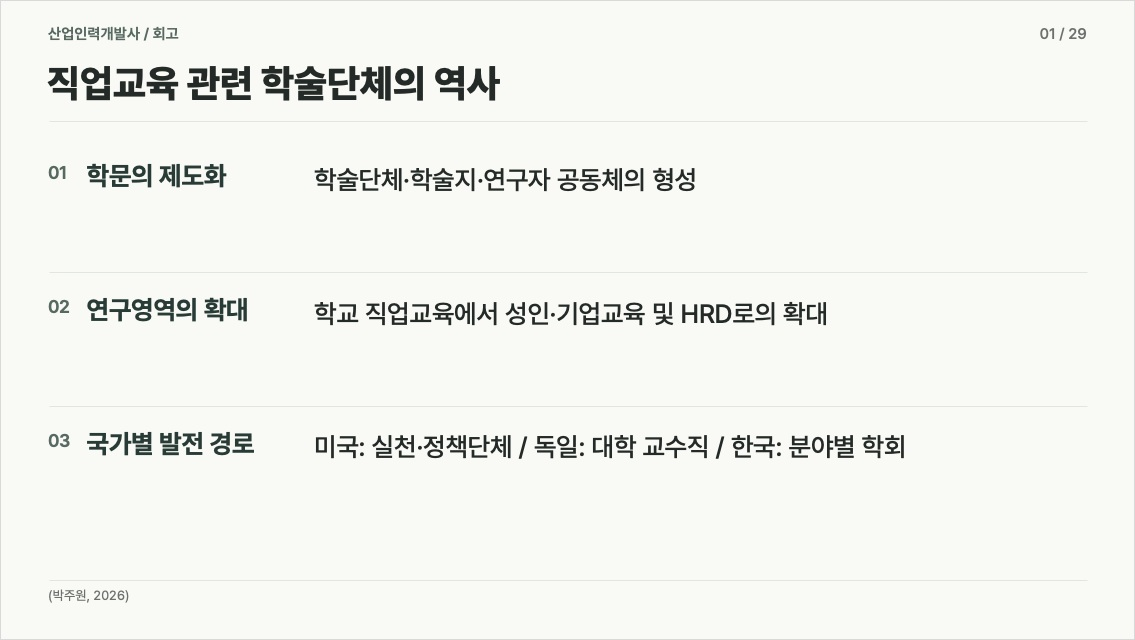
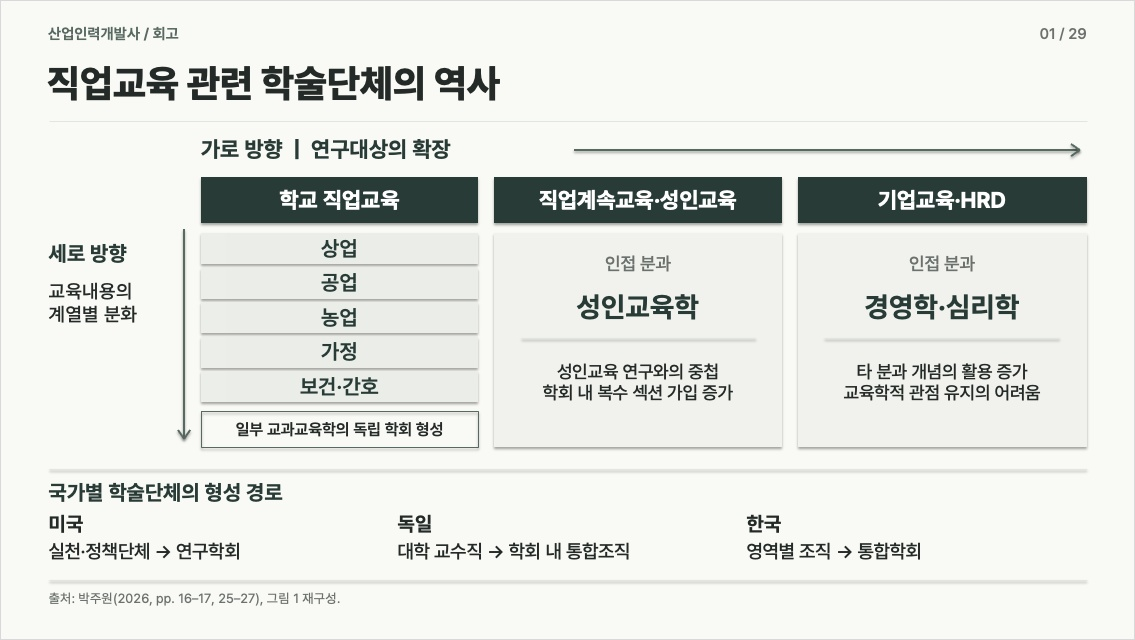
Rebuild recap using horizontal and vertical vocational education framework

diff --git a/au-cn-2026/app.js b/au-cn-2026/app.js
@@ -10,5 +10,5 @@ function drawPanel(){const s=deck.slides[idx];const p=$('#panel');document.query
  else if(tab==='sources'){p.innerHTML='<h3>장표 관련 사료 및 연구문헌</h3><div class="sources">'+s.sources.map(k=>sourceCard(lookup[k])).join('')+'</div>'}
  else{p.innerHTML='<h3>전체 참고문헌 및 확인 위치</h3><div class="summary"><span>등록 출처 <b>'+deck.sources.length+'건</b></span><span>원문 확보 여부 및 자료 성격의 구별</span></div><input class="search" id="sourceSearch" type="search" aria-label="참고문헌 검색" placeholder="저자·제목·연도·검토 상태 검색"><div id="sourceList"></div>';const render=()=>{let q=$('#sourceSearch').value.toLowerCase();$('#sourceList').innerHTML=deck.sources.filter(t=>JSON.stringify(t).toLowerCase().includes(q)).sort((a,b)=>a.ref.localeCompare(b.ref,'en')).map(sourceCard).join('')||'<p>검색 결과 없음</p>'};$('#sourceSearch').oninput=render;render()}
 }
-function go(i,update=true){idx=Math.min(deck.slides.length-1,Math.max(0,i));const s=deck.slides[idx];$('#section').textContent=s.section+' · '+s.id+' / '+deck.slides.length+' · 배정 '+seconds(s.sec);$('#slideTitle').textContent=s.title;$('#slide').src=root+'slides/'+s.id+'.jpg';$('#slide').alt=s.title+' — 실제 PowerPoint 렌더링';$('#sel').value=idx;$('#prev').disabled=idx===0;$('#next').disabled=idx===deck.slides.length-1;$('#bar').style.width=(100*(idx+1)/deck.slides.length)+'%';const used=deck.slides.slice(0,idx+1).reduce((a,b)=>a+b.sec,0);$('#timing').textContent='누적 '+seconds(used)+' / 39:00';drawNav();drawPanel();if(update)history.replaceState(null,'','#slide='+s.id)}
-fetch(root+'data.json',{cache:'no-cache'}).then(r=>{if(!r.ok)throw Error('자료 요청 실패 '+r.status);return r.json()}).then(d=>{deck=d;lookup=Object.fromEntries(d.sources.map(s=>[s.id,s]));$('#sel').innerHTML=d.slides.map((s,i)=>'<option value="'+i+'">'+s.id+' '+esc(s.title)+'</option>').join('');$('#sel').onchange=e=>go(+e.target.value);$('#prev').onclick=()=>go(idx-1);$('#next').onclick=()=>go(idx+1);document.querySelectorAll('.tabs button').forEach(b=>b.onclick=()=>{tab=b.dataset.tab;drawPanel()});document.addEventListener('keydown',e=>{if(/INPUT|SELECT|TEXTAREA/.test(e.target.tagName))return;if(e.key==='ArrowRight'){e.preventDefault();go(idx+1)}if(e.key==='ArrowLeft'){e.preventDefault();go(idx-1)}});const n=Number(location.hash.match(/slide=(\d+)/)?.[1]||1);go(n-1,false)}).catch(e=>{$('#slideTitle').textContent='자료 불러오기 오류';$('#panel').textContent=String(e)});
+function go(i,update=true){idx=Math.min(deck.slides.length-1,Math.max(0,i));const s=deck.slides[idx];$('#section').textContent=s.section+' · '+s.id+' / '+deck.slides.length+' · 배정 '+seconds(s.sec);$('#slideTitle').textContent=s.title;$('#slide').src=root+'slides/'+s.id+'.jpg?v=20261127r006';$('#slide').alt=s.title+' — 실제 PowerPoint 렌더링';$('#sel').value=idx;$('#prev').disabled=idx===0;$('#next').disabled=idx===deck.slides.length-1;$('#bar').style.width=(100*(idx+1)/deck.slides.length)+'%';const used=deck.slides.slice(0,idx+1).reduce((a,b)=>a+b.sec,0);$('#timing').textContent='누적 '+seconds(used)+' / 39:00';drawNav();drawPanel();if(update)history.replaceState(null,'','#slide='+s.id)}
+fetch(root+'data.json?v=20261127r006',{cache:'no-cache'}).then(r=>{if(!r.ok)throw Error('자료 요청 실패 '+r.status);return r.json()}).then(d=>{deck=d;lookup=Object.fromEntries(d.sources.map(s=>[s.id,s]));$('#sel').innerHTML=d.slides.map((s,i)=>'<option value="'+i+'">'+s.id+' '+esc(s.title)+'</option>').join('');$('#sel').onchange=e=>go(+e.target.value);$('#prev').onclick=()=>go(idx-1);$('#next').onclick=()=>go(idx+1);document.querySelectorAll('.tabs button').forEach(b=>b.onclick=()=>{tab=b.dataset.tab;drawPanel()});document.addEventListener('keydown',e=>{if(/INPUT|SELECT|TEXTAREA/.test(e.target.tagName))return;if(e.key==='ArrowRight'){e.preventDefault();go(idx+1)}if(e.key==='ArrowLeft'){e.preventDefault();go(idx-1)}});const n=Number(location.hash.match(/slide=(\d+)/)?.[1]||1);go(n-1,false)}).catch(e=>{$('#slideTitle').textContent='자료 불러오기 오류';$('#panel').textContent=String(e)});

diff --git a/exhibit/index.html b/exhibit/index.html
@@ -1,1 +1,1 @@
-<!DOCTYPE html><html lang="ko"><head><meta charset="utf-8"><meta name="viewport" content="width=device-width,initial-scale=1"><meta name="description" content="호주·중국 직업교육훈련의 비교역사 연구 발표 준비실"><title>호주·중국 직업교육훈련사 | 발표 준비실</title><link rel="stylesheet" href="../au-cn-2026/style.css?v=20261127r005"></head><body data-root="../au-cn-2026/" class="exhibit"><header class="top"><div><p>2026-2 산업인력개발사 · 14주차 주제발표</p><h1>호주·중국 직업교육훈련의 역사</h1><p>산업인력의 양성과 개인의 교육기회에 관한 역사적 비교</p></div><div class="action"><a href="../au-cn-2026/presentation.pptx" download>편집 가능한 PPTX</a><a href="../">발표 준비실</a></div></header><main class="shell"><aside class="nav"><h2>발표 목차 · 29장 / 39분</h2><div id="navlist"></div></aside><div class="main"><div class="headrow"><div><div id="section" class="meta">자료 불러오기 중</div><h2 id="slideTitle">발표 준비실</h2></div><div class="controls"><button id="prev" aria-label="이전 장표">‹ 이전</button><select id="sel" aria-label="장표 이동"></select><button id="next" aria-label="다음 장표">다음 ›</button><span class="meta" id="timing"></span></div></div><div class="progress"><span id="bar"></span></div><img class="slide" id="slide" alt="장표 미리보기"><div class="detail-area"><div class="tabs" role="tablist"><button class="active" data-tab="notes" role="tab">발표자 노트</button><button data-tab="sources" role="tab">관련 사료</button><button data-tab="all" role="tab">전체 참고문헌</button></div><section id="panel" class="panel" aria-live="polite"></section></div><div class="bottom">서울대학교 산업인력개발사 · 14주차 주제발표</div></div></main><script src="../au-cn-2026/app.js?v=20261127r005"></script></body></html>
+<!DOCTYPE html><html lang="ko"><head><meta charset="utf-8"><meta name="viewport" content="width=device-width,initial-scale=1"><meta name="description" content="호주·중국 직업교육훈련의 비교역사 연구 발표 준비실"><title>호주·중국 직업교육훈련사 | 발표 준비실</title><link rel="stylesheet" href="../au-cn-2026/style.css?v=20261127r006"></head><body data-root="../au-cn-2026/" class="exhibit"><header class="top"><div><p>2026-2 산업인력개발사 · 14주차 주제발표</p><h1>호주·중국 직업교육훈련의 역사</h1><p>산업인력의 양성과 개인의 교육기회에 관한 역사적 비교</p></div><div class="action"><a href="../au-cn-2026/presentation.pptx?v=20261127r006" download>편집 가능한 PPTX</a><a href="../">발표 준비실</a></div></header><main class="shell"><aside class="nav"><h2>발표 목차 · 29장 / 39분</h2><div id="navlist"></div></aside><div class="main"><div class="headrow"><div><div id="section" class="meta">자료 불러오기 중</div><h2 id="slideTitle">발표 준비실</h2></div><div class="controls"><button id="prev" aria-label="이전 장표">‹ 이전</button><select id="sel" aria-label="장표 이동"></select><button id="next" aria-label="다음 장표">다음 ›</button><span class="meta" id="timing"></span></div></div><div class="progress"><span id="bar"></span></div><img class="slide" id="slide" alt="장표 미리보기"><div class="detail-area"><div class="tabs" role="tablist"><button class="active" data-tab="notes" role="tab">발표자 노트</button><button data-tab="sources" role="tab">관련 사료</button><button data-tab="all" role="tab">전체 참고문헌</button></div><section id="panel" class="panel" aria-live="polite"></section></div><div class="bottom">서울대학교 산업인력개발사 · 14주차 주제발표</div></div></main><script src="../au-cn-2026/app.js?v=20261127r006"></script></body></html>

diff --git a/index.html b/index.html
@@ -1,1 +1,1 @@
-<!DOCTYPE html><html lang="ko"><head><meta charset="utf-8"><meta name="viewport" content="width=device-width,initial-scale=1"><meta name="description" content="호주·중국 직업교육훈련의 비교역사 연구 발표 준비실"><title>호주·중국 직업교육훈련사 | 발표 준비실</title><link rel="stylesheet" href="au-cn-2026/style.css?v=20261127r005"></head><body data-root="au-cn-2026/" class=""><header class="top"><div><p>2026-2 산업인력개발사 · 14주차 주제발표</p><h1>호주·중국 직업교육훈련의 역사</h1><p>산업인력의 양성과 개인의 교육기회에 관한 역사적 비교</p></div><div class="action"><a href="au-cn-2026/presentation.pptx" download>편집 가능한 PPTX</a><a href="exhibit/">발표 화면</a></div></header><main class="shell"><aside class="nav"><h2>발표 목차 · 29장 / 39분</h2><div id="navlist"></div></aside><div class="main"><div class="headrow"><div><div id="section" class="meta">자료 불러오기 중</div><h2 id="slideTitle">발표 준비실</h2></div><div class="controls"><button id="prev" aria-label="이전 장표">‹ 이전</button><select id="sel" aria-label="장표 이동"></select><button id="next" aria-label="다음 장표">다음 ›</button><span class="meta" id="timing"></span></div></div><div class="progress"><span id="bar"></span></div><img class="slide" id="slide" alt="장표 미리보기"><div class="detail-area"><div class="tabs" role="tablist"><button class="active" data-tab="notes" role="tab">발표자 노트</button><button data-tab="sources" role="tab">관련 사료</button><button data-tab="all" role="tab">전체 참고문헌</button></div><section id="panel" class="panel" aria-live="polite"></section></div><div class="bottom">서울대학교 산업인력개발사 · 14주차 주제발표</div></div></main><script src="au-cn-2026/app.js?v=20261127r005"></script></body></html>
+<!DOCTYPE html><html lang="ko"><head><meta charset="utf-8"><meta name="viewport" content="width=device-width,initial-scale=1"><meta name="description" content="호주·중국 직업교육훈련의 비교역사 연구 발표 준비실"><title>호주·중국 직업교육훈련사 | 발표 준비실</title><link rel="stylesheet" href="au-cn-2026/style.css?v=20261127r006"></head><body data-root="au-cn-2026/" class=""><header class="top"><div><p>2026-2 산업인력개발사 · 14주차 주제발표</p><h1>호주·중국 직업교육훈련의 역사</h1><p>산업인력의 양성과 개인의 교육기회에 관한 역사적 비교</p></div><div class="action"><a href="au-cn-2026/presentation.pptx?v=20261127r006" download>편집 가능한 PPTX</a><a href="exhibit/">발표 화면</a></div></header><main class="shell"><aside class="nav"><h2>발표 목차 · 29장 / 39분</h2><div id="navlist"></div></aside><div class="main"><div class="headrow"><div><div id="section" class="meta">자료 불러오기 중</div><h2 id="slideTitle">발표 준비실</h2></div><div class="controls"><button id="prev" aria-label="이전 장표">‹ 이전</button><select id="sel" aria-label="장표 이동"></select><button id="next" aria-label="다음 장표">다음 ›</button><span class="meta" id="timing"></span></div></div><div class="progress"><span id="bar"></span></div><img class="slide" id="slide" alt="장표 미리보기"><div class="detail-area"><div class="tabs" role="tablist"><button class="active" data-tab="notes" role="tab">발표자 노트</button><button data-tab="sources" role="tab">관련 사료</button><button data-tab="all" role="tab">전체 참고문헌</button></div><section id="panel" class="panel" aria-live="polite"></section></div><div class="bottom">서울대학교 산업인력개발사 · 14주차 주제발표</div></div></main><script src="au-cn-2026/app.js?v=20261127r006"></script></body></html>
